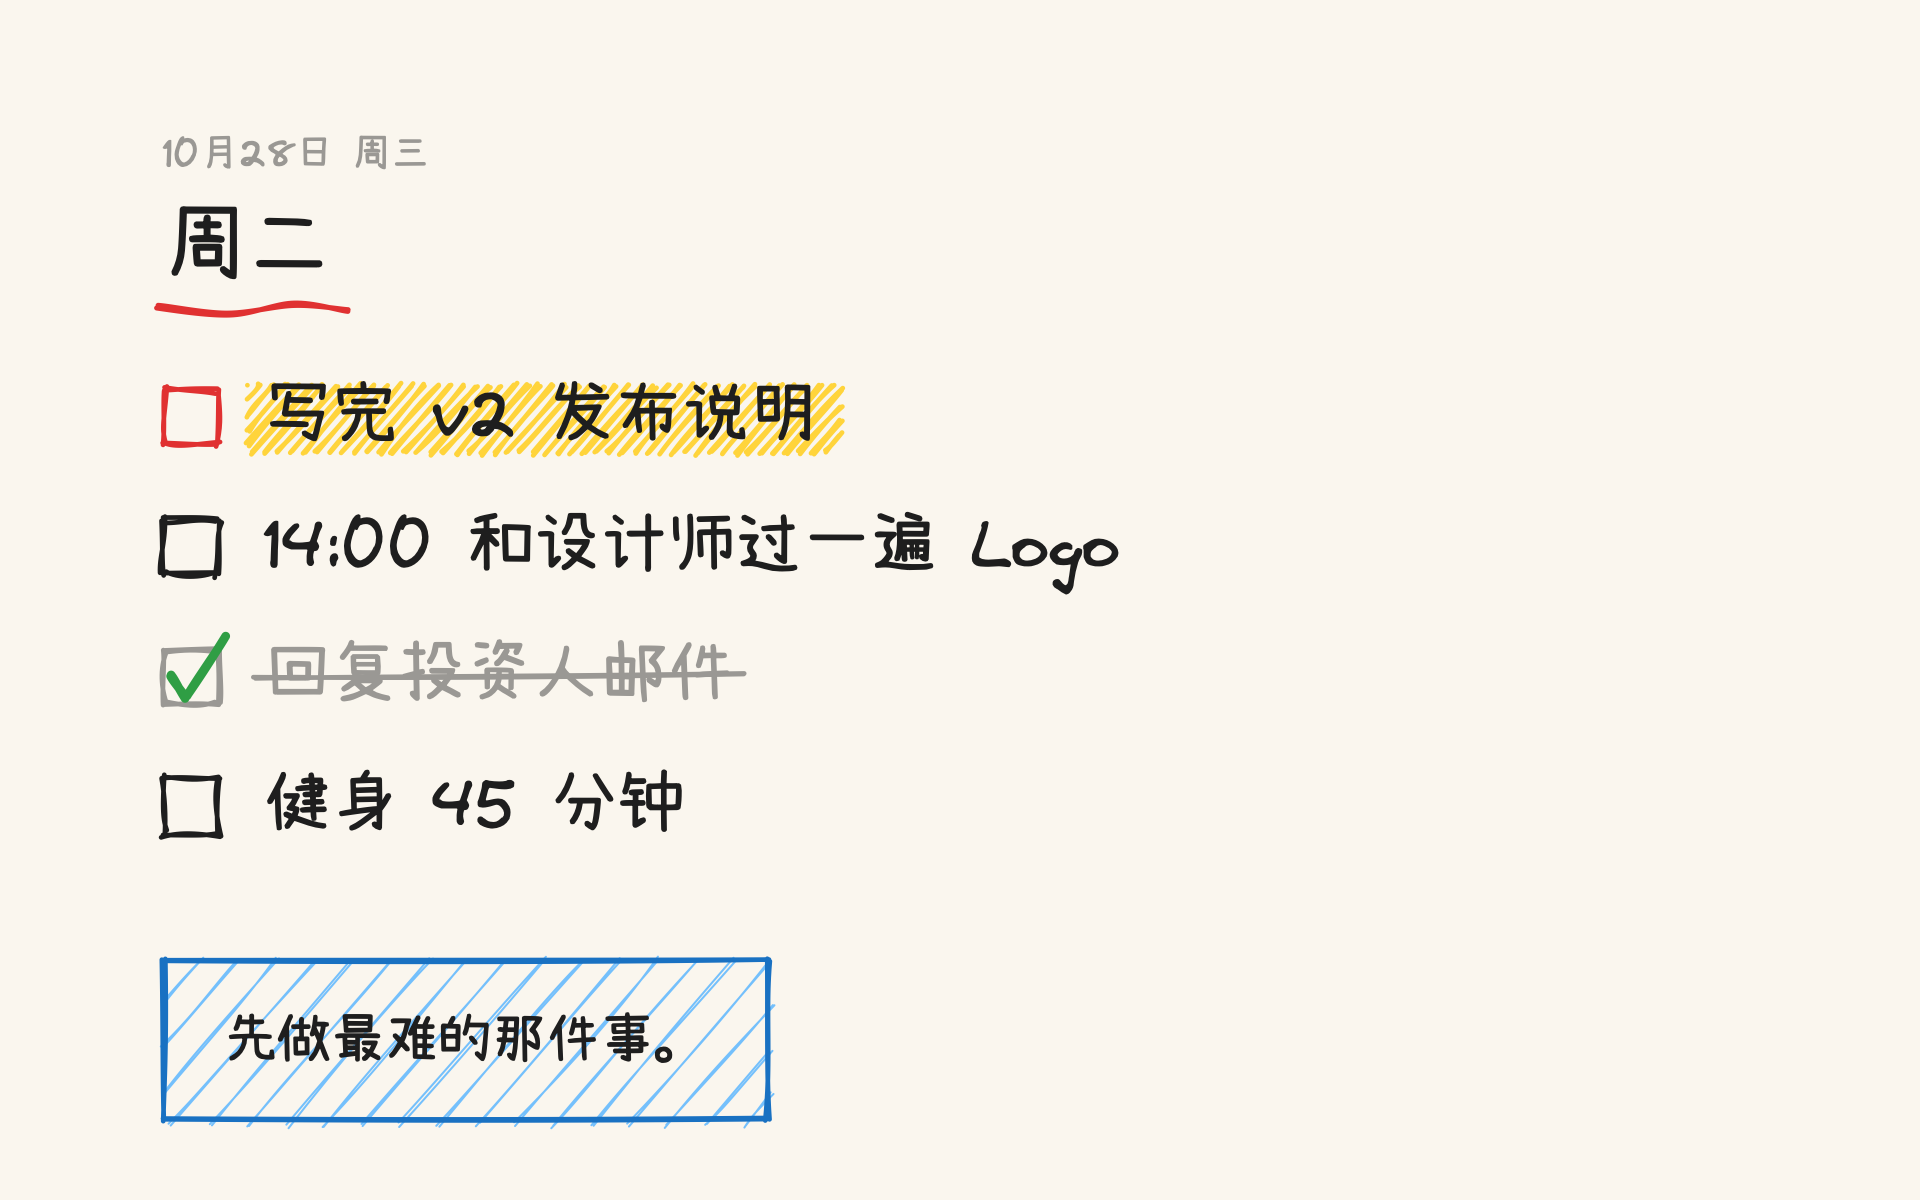
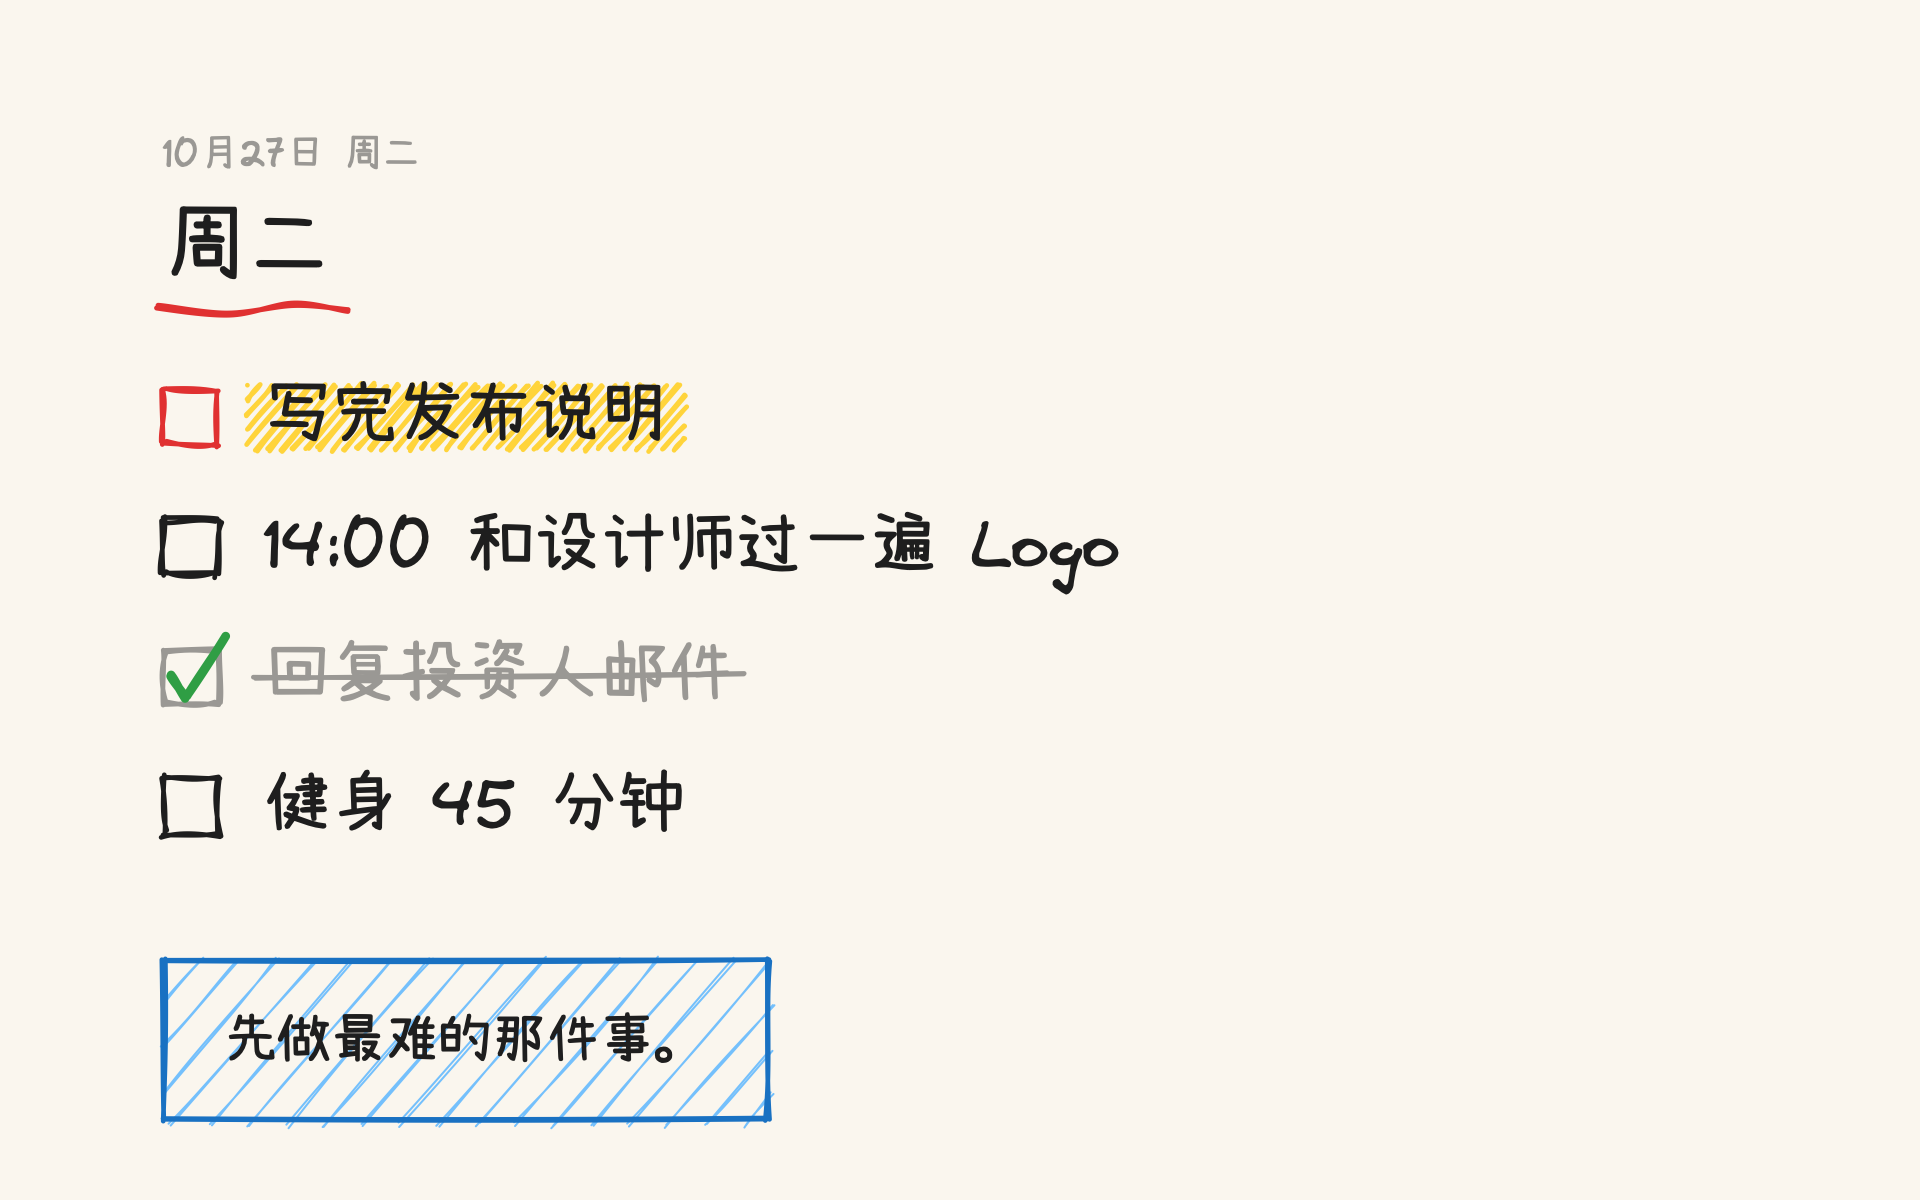
docs: drop v1 references; fix sample image dates

Changed region(s): [[0.0938, 0.3083, 0.4375, 0.4008], [0.125, 0.0925, 0.2188, 0.1542]]

diff --git a/README.md b/README.md
@@ -14,7 +14,7 @@
 
 ## Why
 
-To-do apps wait for you to open them. The wallpaper is already in front of you. Mura v1 was a canvas you wrote on by hand; v2 is built for agents: no editor, no coordinates, no app running in the background. The agent sends text, Mura does the layout and the drawing.
+To-do apps wait for you to open them. The wallpaper is already in front of you. Mura is built for agents: no editor, no coordinates, no app running in the background. The agent sends text, Mura does the layout and the drawing.
 
 ## Install
 
@@ -100,9 +100,6 @@ No. Everything stays in `~/Library/Application Support/Mura`. The only network a
 
 ### Does it keep running in the background?
 No. A LaunchAgent starts `mura tick` every five minutes; it exits in milliseconds unless the day changed.
-
-### Where is the v1 drawing canvas?
-v1 (a menu bar app with a hand-drawing editor) lives on the [`v1` branch](https://github.com/risingjerry/Mura/tree/v1) and in the [v1 release](https://github.com/risingjerry/Mura/releases/tag/v1). v2 drops the editor on purpose.
 
 ## Uninstall
 

diff --git a/AGENTS.md b/AGENTS.md
@@ -1,6 +1,6 @@
 # Agent guide — Mura
 
-Mura v2 is a single Swift command-line tool, `mura`, that renders a day's to-do list into an Excalidraw-style hand-drawn PNG and sets it as the macOS wallpaper on every display. To *use* Mura from an agent, read `skills/mura/SKILL.md`; this file is for working on the repo.
+Mura is a single Swift command-line tool, `mura`, that renders a day's to-do list into an Excalidraw-style hand-drawn PNG and sets it as the macOS wallpaper on every display. To *use* Mura from an agent, read `skills/mura/SKILL.md`; this file is for working on the repo.
 
 ## Product intent
 
